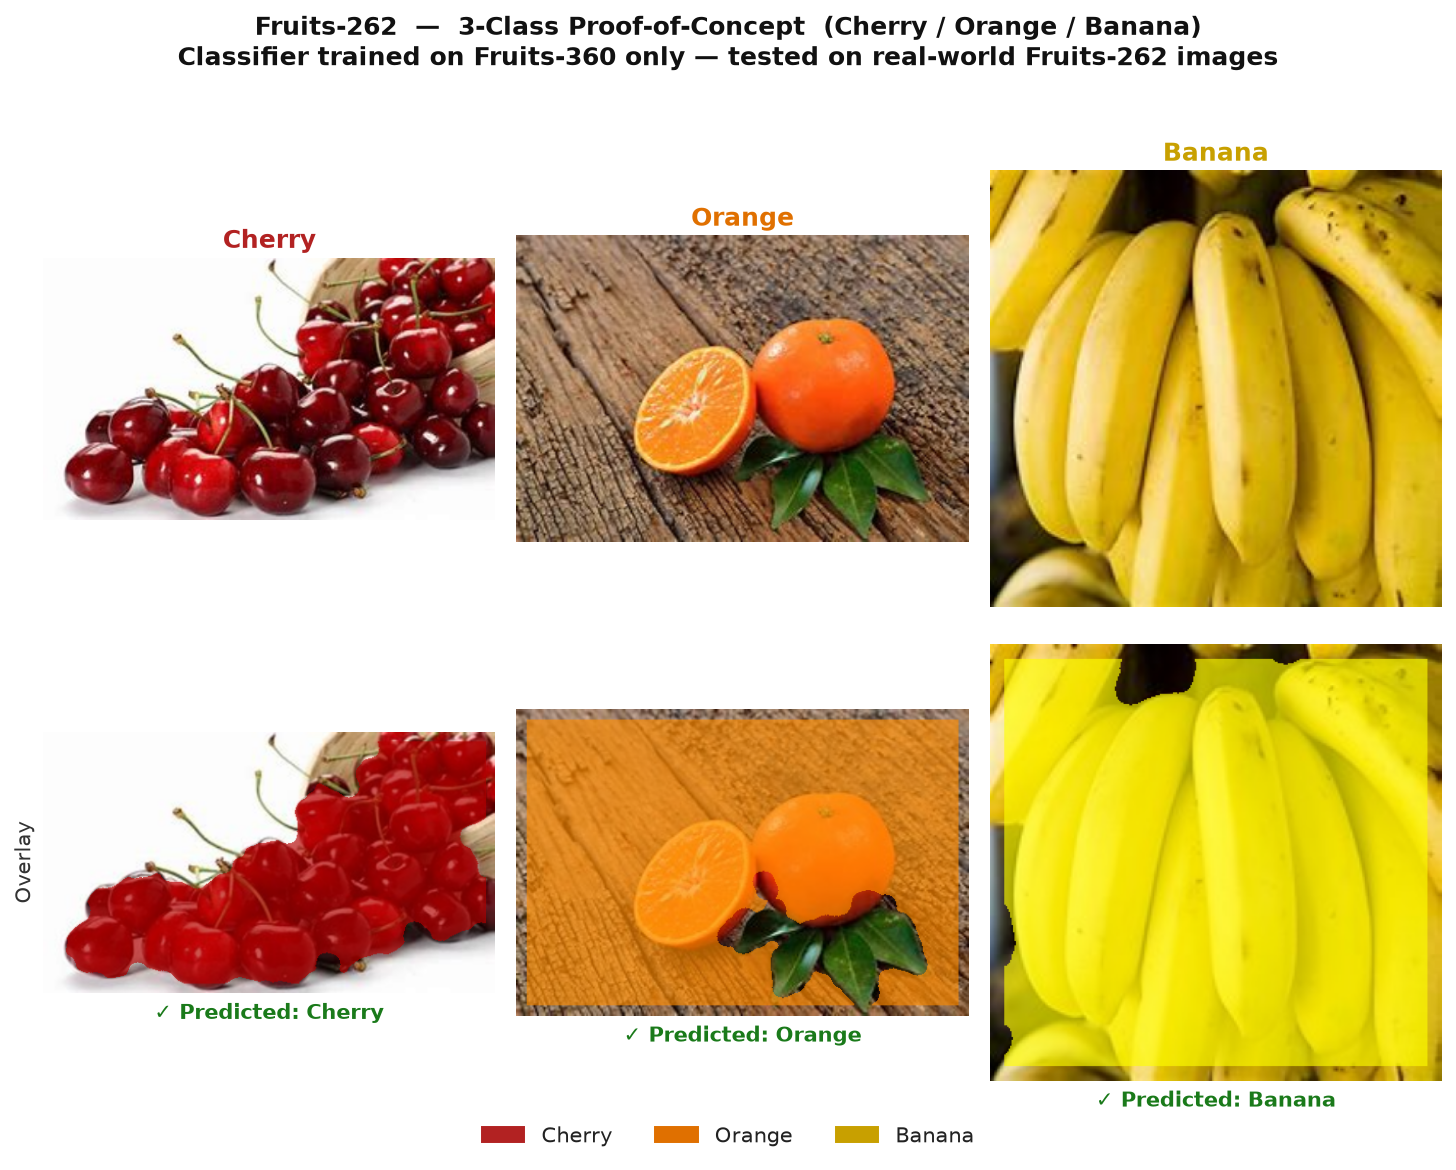
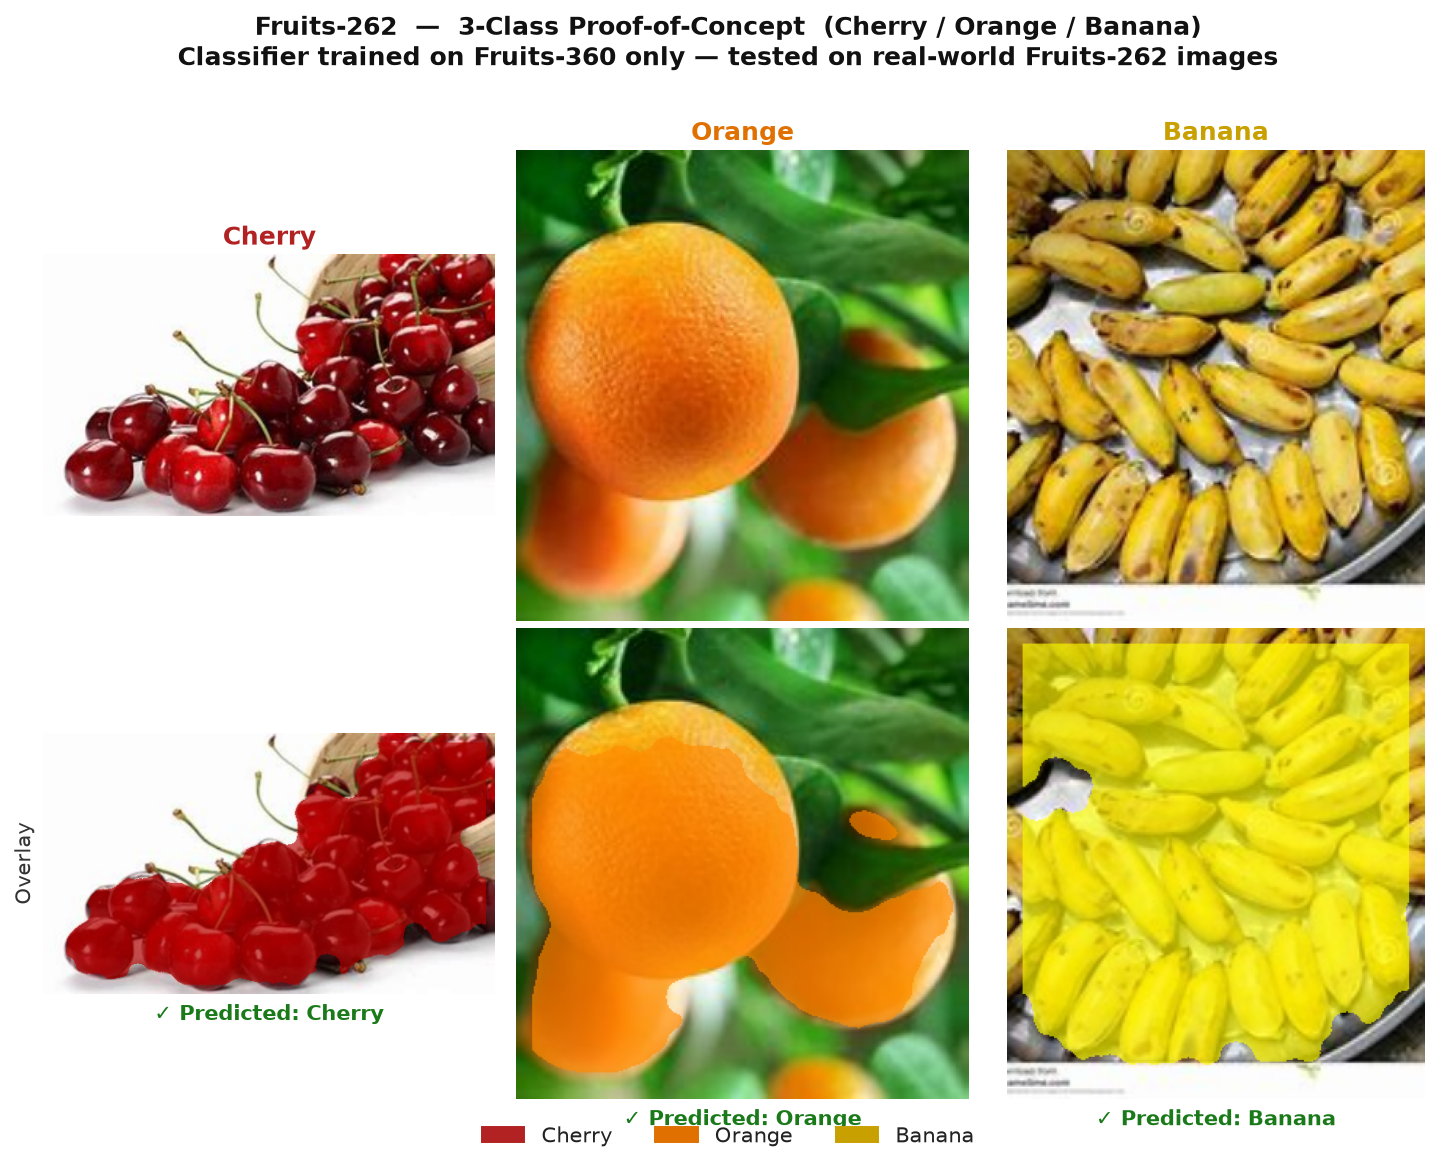
fix: update scene demo images and adjust references for consistency

diff --git a/scripts/run_all.py b/scripts/run_all.py
@@ -806,9 +806,9 @@ def run_3class_scene_demo(refs3, nmean3, nstd3):
     print("═"*70)
 
     scene_files = [
-        ("cherry_36.jpg",        "Cherry scene"),
+        ("cherry_35.jpg",        "Cherry scene"),
         ("orange_5.jpg",        "Orange scene"),
-        ("banana_orange.jpg",   "Banana + Orange scene"),
+        ("banana(lady_finger)_2.jpg",   "Banana +"),
     ]
     cfg = make_scene_cfg(3)
 
@@ -836,7 +836,7 @@ def run_scene_demos(refs10, nmean10, nstd10):
     sp3 = _drop_hex(SPEC_10)
 
     demos = [
-        (os.path.join(MULTI, "cherry_1.jpg"),
+        (os.path.join(MULTI, "cherry(wax)_hazelnut_kiwi_nut.jpg"),
          10, SPEC_10, refs10, nmean10, nstd10,
          "cherry_scene_overlay.png", "Cherry scene  (10-class)"),
         (os.path.join(MULTI, "banana_1.jpg"),
@@ -1023,8 +1023,8 @@ def run_fruits262_3class_proof():
 
     candidates = [
         ("cherry", "0.jpg", 0, "Cherry"),
-        ("orange", "2.jpg",  1, "Orange"),
-        ("banana", "3.jpg",  2, "Banana"),
+        ("orange", "1.jpg",  1, "Orange"),
+        ("banana", "71.jpg",  2, "Banana"),
     ]
 
     target_h = 300